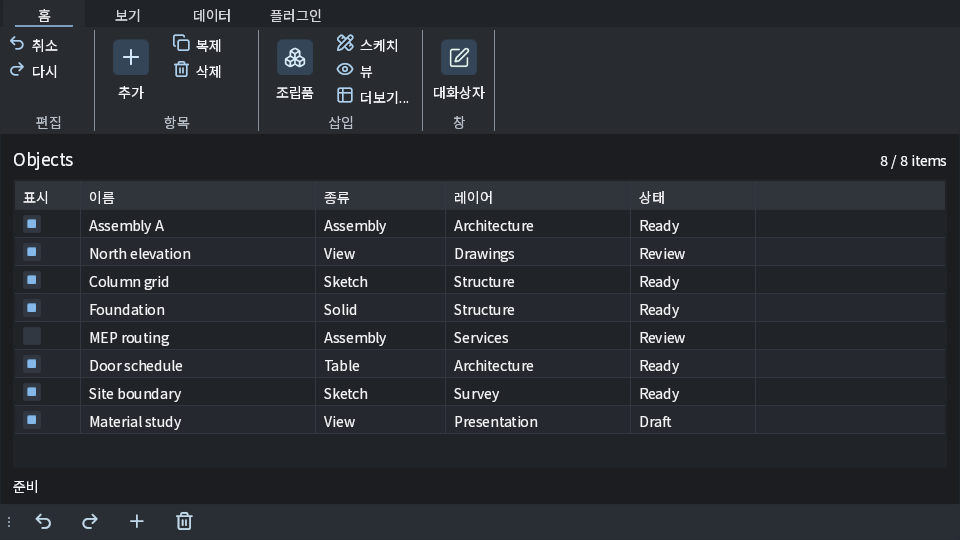
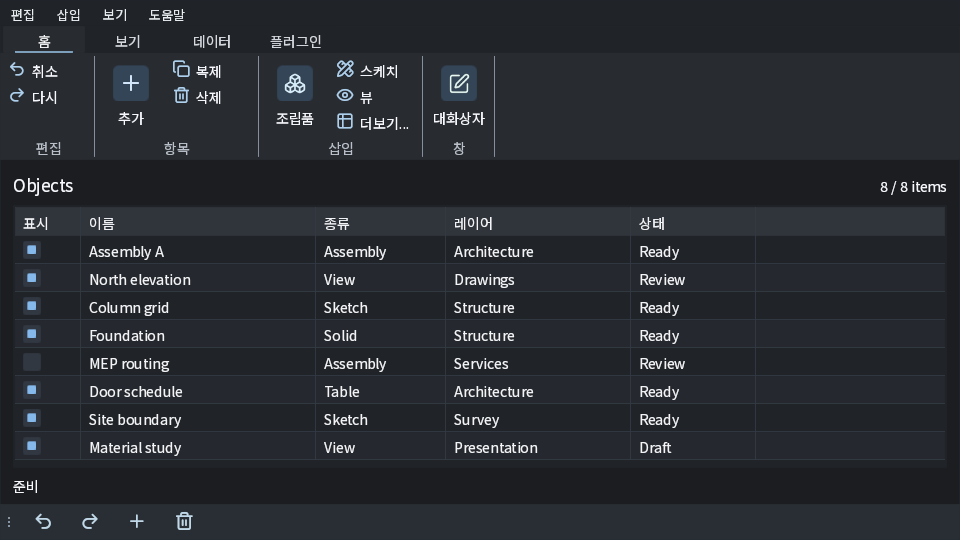
Add pull-down menu above ribbon demo

diff --git a/examples/ribbon_demo/main.cpp b/examples/ribbon_demo/main.cpp
@@ -17,6 +17,7 @@
 #include "widgets/label.h"
 #include "widgets/linear_layout.h"
 #include "widgets/list_control.h"
+#include "widgets/menu_bar.h"
 #include "widgets/numeric_input.h"
 #include "widgets/popup.h"
 #include "widgets/ribbon.h"
@@ -240,6 +241,7 @@ struct DemoState {
     std::shared_ptr<const lotui::TextEngine> textEngine;
     lotui::DialogHost* dialogs{nullptr};
     lotui::PopupHost* popups{nullptr};
+    lotui::MenuBar* menuBar{nullptr};
     lotui::Ribbon* ribbon{nullptr};
     lotui::DockWorkspace* dock{nullptr};
     lotui::Button* insertMenuButton{nullptr};
@@ -621,6 +623,61 @@ std::unique_ptr<lotui::WidgetTree> createUi(
     rootOptions.crossAxisAlignment = lotui::CrossAxisAlignment::Stretch;
     root->setOptions(rootOptions);
 
+    const auto menuCommand = [](std::string id, std::string label,
+            std::string shortcut = {}) {
+        return lotui::MenuEntry{lotui::MenuEntryKind::Command,
+            std::move(id), std::move(label), std::move(shortcut),
+            true, false, {}};
+    };
+    lotui::MenuBarStyle menuStyle;
+    menuStyle.background = desktopColor(0x202328);
+    menuStyle.popupBackground = desktopColor(0x292e34);
+    menuStyle.hovered = desktopColor(0x36414b);
+    menuStyle.selected = desktopColor(0x40505d);
+    menuStyle.text = desktopColor(0xe8edf1);
+    menuStyle.muted = desktopColor(0x9ba9b5);
+    menuStyle.separator = desktopColor(0x47515a);
+    menuStyle.barHeight = 26.0F;
+    menuStyle.popupWidth = 188.0F;
+    auto menuBar = std::make_unique<lotui::MenuBar>(state.textEngine,
+        std::vector<lotui::Menu>{
+            {"edit", "편집", {menuCommand("undo", "실행 취소", "Ctrl+Z"),
+                menuCommand("redo", "다시 실행", "Ctrl+Y"),
+                {lotui::MenuEntryKind::Separator, {}, {}, {}, true, false, {}},
+                menuCommand("duplicate", "복제"),
+                menuCommand("delete", "삭제")}},
+            {"insert", "삽입", {menuCommand("add", "항목 추가"),
+                menuCommand("table", "표 삽입"),
+                menuCommand("sketch", "스케치 삽입"),
+                menuCommand("view", "뷰 삽입")}},
+            {"display", "보기", {menuCommand("home-tab", "홈 탭"),
+                menuCommand("view-tab", "보기 탭"),
+                menuCommand("data-tab", "데이터 탭"),
+                menuCommand("plugin-tab", "플러그인 탭")}},
+            {"help", "도움말", {menuCommand("details", "선택 정보"),
+                menuCommand("dialog", "대화상자")}}},
+        [&state](std::string_view id) {
+            if (id == "undo") state.undo();
+            else if (id == "redo") state.redo();
+            else if (id == "duplicate") state.duplicateItem();
+            else if (id == "delete") state.removeItem();
+            else if (id == "add") state.addItem();
+            else if (id == "table")
+                state.insertItem("Table", "Table", "Architecture");
+            else if (id == "sketch")
+                state.insertItem("Sketch", "Sketch", "Structure");
+            else if (id == "view")
+                state.insertItem("View", "View", "Drawings");
+            else if (id == "home-tab") state.ribbon->selectTab("home");
+            else if (id == "view-tab") state.ribbon->selectTab("view");
+            else if (id == "data-tab") state.ribbon->selectTab("data");
+            else if (id == "plugin-tab") state.ribbon->selectTab("plugin");
+            else if (id == "details") state.showSelectionDetails();
+            else if (id == "dialog") state.showDialog();
+        }, menuStyle, textStyle(13.0F));
+    state.menuBar = menuBar.get();
+    root->addChild(std::move(menuBar), fixedHeight(menuStyle.barHeight));
+
     lotui::RibbonStyle ribbonStyle;
     ribbonStyle.preferredHeight = ribbonHeight;
     ribbonStyle.tabBarHeight = 27.0F;
@@ -864,6 +921,7 @@ std::unique_ptr<lotui::WidgetTree> createUi(
 
     auto popup = std::make_unique<lotui::PopupHost>(std::move(root));
     state.popups = popup.get();
+    state.menuBar->setPopupHost(popup.get());
     for (auto* control : state.pluginControls) {
         if (auto* combo = dynamic_cast<lotui::ComboBox*>(control)) {
             combo->setPopupHost(popup.get());
@@ -1270,6 +1328,30 @@ void exerciseDocking(lotui::WidgetTree& tree, DemoState& state) {
         throw std::runtime_error("docked undo command failed");
 }
 
+void exerciseMenuBar(lotui::WidgetTree& tree, DemoState& state) {
+    if (!state.menuBar || !state.popups)
+        throw std::runtime_error("menu bar is missing");
+    const auto click = [&tree](lotui::Rect area) {
+        const lotui::Point center{area.x + area.width * 0.5F,
+            area.y + area.height * 0.5F};
+        tree.pointerPressed(center, lotui::PointerButton::Primary);
+        tree.pointerReleased(center, lotui::PointerButton::Primary);
+    };
+    const auto initialCount = state.items.size();
+    click(state.menuBar->menuBounds(1));
+    if (!state.menuBar->isOpen() || !state.popups->hasPopup())
+        throw std::runtime_error("insert menu did not open");
+    auto popup = state.popups->popupBounds();
+    click({popup.x + 12.0F, popup.y + 4.0F, 70.0F, 25.0F});
+    if (state.items.size() != initialCount + 1 || state.popups->hasPopup())
+        throw std::runtime_error("insert menu action did not run");
+    click(state.menuBar->menuBounds(0));
+    popup = state.popups->popupBounds();
+    click({popup.x + 12.0F, popup.y + 4.0F, 70.0F, 25.0F});
+    if (state.items.size() != initialCount || state.popups->hasPopup())
+        throw std::runtime_error("edit menu undo did not run");
+}
+
 } // namespace
 
 int main(int argc, char** argv) {
@@ -1281,6 +1363,8 @@ int main(int argc, char** argv) {
             std::string_view(argv[1]) == "--capture-clicked-plugin";
         const bool captureHome = argc == 3 &&
             std::string_view(argv[1]) == "--capture-home";
+        const bool captureMenu = argc == 3 &&
+            std::string_view(argv[1]) == "--capture-menu";
         const bool captureDockLeft = argc == 3 &&
             std::string_view(argv[1]) == "--capture-dock-left";
         const bool captureDockBottom = argc == 3 &&
@@ -1296,7 +1380,7 @@ int main(int argc, char** argv) {
         const bool captureModelessLarge = argc == 3 &&
             std::string_view(argv[1]) == "--capture-modeless-large";
         const bool captureFrame = capturePlugin || captureClickedPlugin ||
-            captureHome || captureDockLeft || captureDockBottom ||
+            captureHome || captureMenu || captureDockLeft || captureDockBottom ||
             captureDockRight || captureInsertMenu || captureDialog ||
             captureModelessSmall || captureModelessLarge;
         if ((argc > 2 && !captureFrame) ||
@@ -1307,6 +1391,7 @@ int main(int argc, char** argv) {
                 "--capture-plugin output.ppm|"
                 "--capture-clicked-plugin output.ppm|"
                 "--capture-home output.ppm|"
+                "--capture-menu output.ppm|"
                 "--capture-dock-left output.ppm|"
                 "--capture-dock-bottom output.ppm|"
                 "--capture-dock-right output.ppm|"
@@ -1360,6 +1445,15 @@ int main(int argc, char** argv) {
             }
         }
         if (capturePlugin) state.ribbon->selectTab("plugin");
+        if (captureMenu) {
+            const auto area = state.menuBar->menuBounds(1);
+            const lotui::Point center{area.x + area.width * 0.5F,
+                area.y + area.height * 0.5F};
+            tree->pointerPressed(center, lotui::PointerButton::Primary);
+            tree->pointerReleased(center, lotui::PointerButton::Primary);
+            if (!state.menuBar->isOpen())
+                throw std::runtime_error("capture menu did not open");
+        }
         if (captureDockLeft) state.dock->setSide(lotui::DockSide::Left);
         if (captureDockBottom) state.dock->setSide(lotui::DockSide::Bottom);
         if (captureDockRight) state.dock->setSide(lotui::DockSide::Right);
@@ -1399,6 +1493,7 @@ int main(int argc, char** argv) {
             exerciseWorkspace(*tree, state);
             exercisePlugin(*tree, state, mode == "--input-test");
             exerciseDocking(*tree, state);
+            exerciseMenuBar(*tree, state);
         }
 
         std::vector<lotui::PaintCommand> commands;

diff --git a/examples/ribbon_demo/README.md b/examples/ribbon_demo/README.md
@@ -3,12 +3,16 @@
 `ribbon_demo` is a LotUI-only native-window example. It does not include or
 link 3dEngine. Its 134-pixel ribbon and object list use the same public widget
 API as the engine integration sample. The four tabs are Home, View, Data, and
-Plugin. Home combines tall primary commands with two- or three-row secondary
+Plugin. A pull-down menu above the ribbon exposes Edit, Insert, View, and Help
+commands. `--capture-menu output.ppm` captures an open menu; `--input-test`
+checks its Insert and Undo actions. Home combines tall primary commands with two- or three-row secondary
 commands in equal-height ribbon panels. Home provides add, duplicate, delete,
 undo, redo, a modal dialog, and assembly/sketch/view insertion. View
 changes row density and frozen
 columns. Data sorts, filters, shows selected-row details, and changes
 visibility. The list itself supports row selection and visibility checkboxes.
+
+![Pull-down menu above the ribbon](../../docs/images/ribbon-menu.png)
 The compact **More** command in the Insert group opens a popup with Table,
 Solid, and View insertion choices. Selecting one adds an object to the list and
 closes the popup; the ribbon keeps its 134-pixel height.
